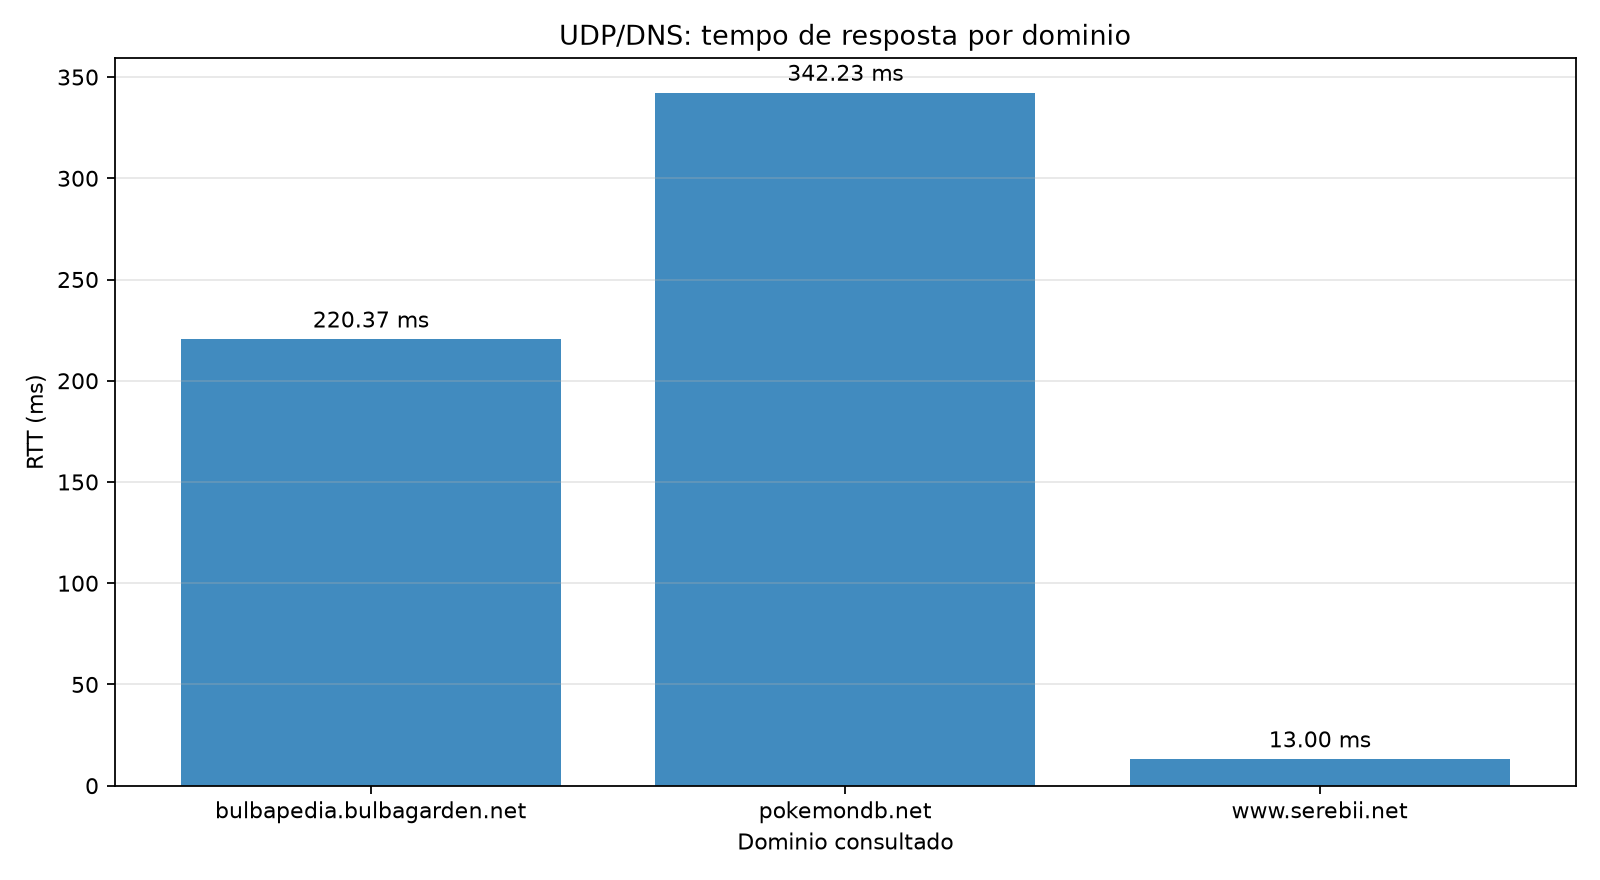
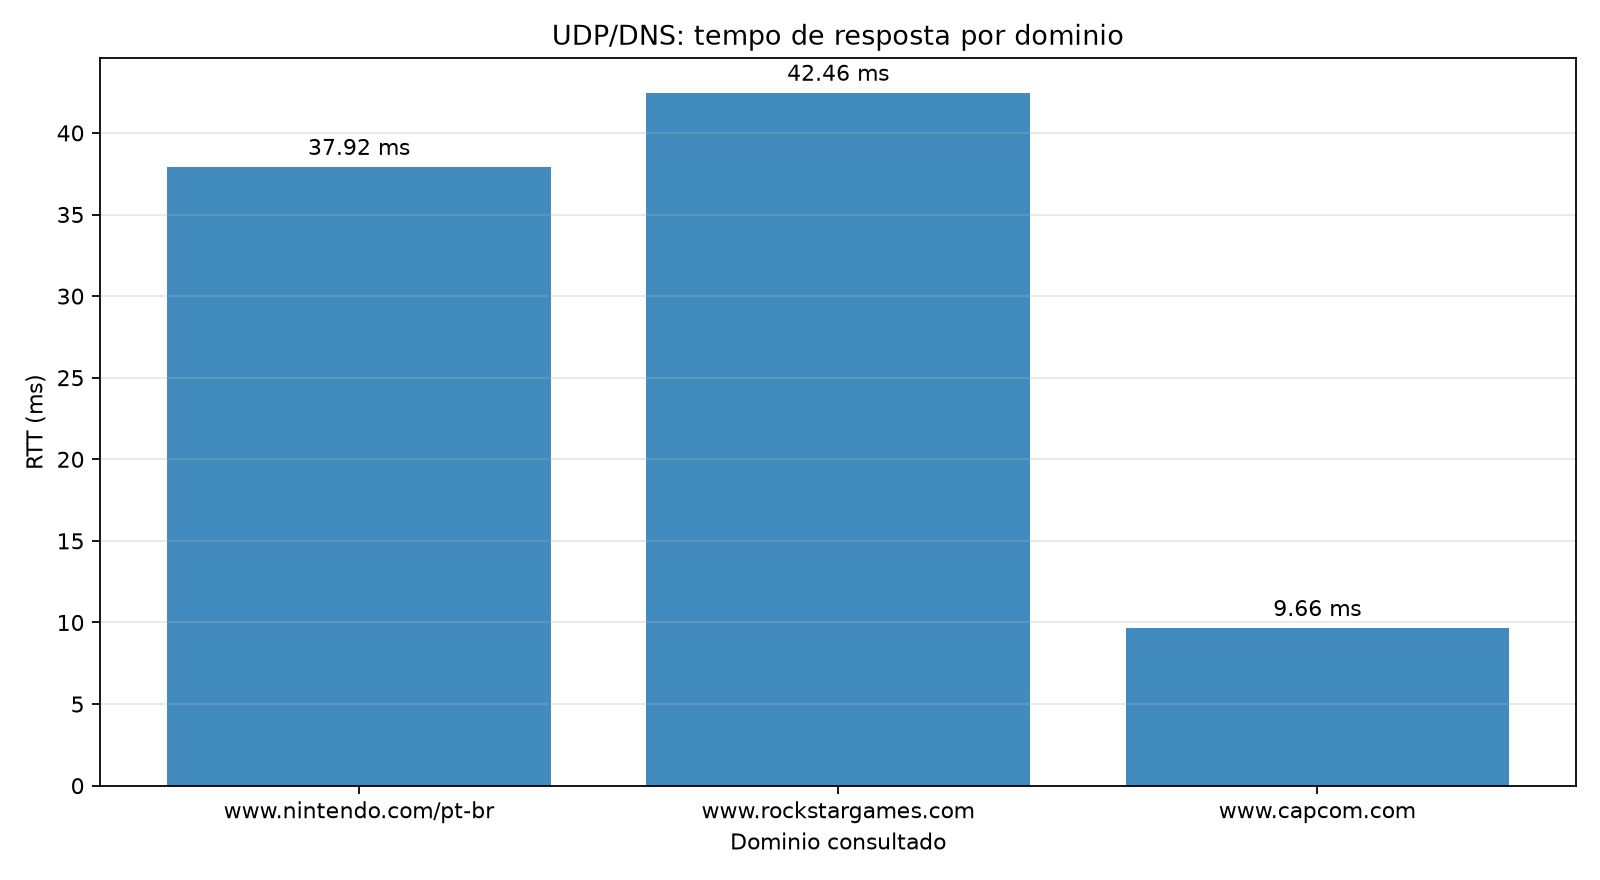
Ajustes gerais do Lab 2

diff --git a/Lab2/analisar_tcp.py b/Lab2/analisar_tcp.py
@@ -1,9 +1,5 @@
 #!/usr/bin/env python3
-"""Gera os graficos e uma analise inicial de um capture TCP.
-
-Uso:
-    python analisar_tcp.py files/tcp-capture-lucas-felix.pcapng
-"""
+"""Gera os graficos e uma analise inicial de um capture TCP."""
 
 from __future__ import annotations
 
@@ -21,6 +17,7 @@ WINDOW_SECONDS = 1.0
 
 
 def flow_endpoints(packet: Any) -> tuple[tuple[str, int], tuple[str, int]]:
+    # Identifica o fluxo TCP pela tupla (IP, porta) de origem e destino.
     tcp = packet[TCP]
     if IP in packet:
         ip_layer = packet[IP]
@@ -30,6 +27,7 @@ def flow_endpoints(packet: Any) -> tuple[tuple[str, int], tuple[str, int]]:
 
 
 def packet_end_sequence(packet: Any) -> int:
+    # Calcula o fim lógico do segmento usando seq + payload + 1 no Syn.
     tcp = packet[TCP]
     payload_length = len(bytes(tcp.payload))
     return int(tcp.seq) + payload_length + (1 if tcp.flags & 0x02 else 0)
@@ -61,6 +59,7 @@ def analyze(capture_path: Path, output_dir: Path) -> None:
     client, server = choose_flow(packets)
     first_time = float(packets[0].time)
 
+    # Mantém apenas os dados do fluxo escolhido: pacotes do cliente com payload e ACKs do servidor.
     client_packets: list[dict[str, float | int]] = []
     server_acks: list[tuple[float, int]] = []
     for packet in packets:
@@ -82,12 +81,13 @@ def analyze(capture_path: Path, output_dir: Path) -> None:
             server_acks.append((timestamp, int(tcp.ack)))
 
     if not client_packets:
-        raise RuntimeError("O fluxo TCP escolhido nao possui segmentos de dados enviados pelo cliente.")
+        pass
 
     client_packets.sort(key=lambda item: float(item["time"]))
     server_acks.sort()
     base_sequence = int(client_packets[0]["seq"])
 
+    # Associa cada segmento de dados ao primeiro ACK cumulativ que confirma o final do segmento.
     rtt_samples: list[tuple[float, float]] = []
     used_ack_index = -1
     for segment in client_packets:
@@ -100,6 +100,7 @@ def analyze(capture_path: Path, output_dir: Path) -> None:
             used_ack_index, ack_time = matching
             rtt_samples.append((float(segment["time"]), ack_time - float(segment["time"])))
 
+    # EstimatedRTT.
     estimated: list[float] = []
     if rtt_samples:
         current = rtt_samples[0][1]
@@ -123,8 +124,6 @@ def analyze(capture_path: Path, output_dir: Path) -> None:
     plot_sequence(client_packets, base_sequence, output_dir / "01_sequencia_fleets.png")
     plot_rtt(rtt_samples, estimated, output_dir / "02_rtt_estimated_rtt.png")
     plot_throughput(throughput, output_dir / "03_throughput.png")
-    write_report(capture_path, output_dir / "analise_tcp.md", client, server, client_packets, rtt_samples, estimated, throughput)
-
     print(f"Fluxo cliente: {client[0]}:{client[1]} -> {server[0]}:{server[1]}")
     print(f"Segmentos de dados do cliente: {len(client_packets)}")
     print(f"Amostras de RTT: {len(rtt_samples)}")
@@ -132,6 +131,7 @@ def analyze(capture_path: Path, output_dir: Path) -> None:
 
 
 def plot_sequence(segments: list[dict[str, float | int]], base: int, path: Path) -> None:
+    # Esse gráfico mostra a evolução da janela de envio, não apenas o número bruto de sequência.
     x = [float(item["time"]) for item in segments]
     y = [int(item["seq"]) - base for item in segments]
     plt.figure(figsize=(11, 5.5))
@@ -173,66 +173,6 @@ def plot_throughput(points: list[tuple[float, float]], path: Path) -> None:
     plt.tight_layout()
     plt.savefig(path, dpi=160)
     plt.close()
-
-
-def write_report(capture_path: Path, path: Path, client: tuple[str, int], server: tuple[str, int], segments: list[dict[str, float | int]], rtt: list[tuple[float, float]], estimated: list[float], throughput: list[tuple[float, float]]) -> None:
-    total_bytes = sum(int(segment["length"]) for segment in segments)
-    duration = max(float(segments[-1]["time"]), 1e-9)
-    rates = [rate for _, rate in throughput if rate > 0]
-    mean_rtt = (sum(value for _, value in rtt) / len(rtt) * 1000) if rtt else float("nan")
-    max_rtt = (max(value for _, value in rtt) * 1000) if rtt else float("nan")
-    first_rate = rates[0] if rates else 0
-    last_rate = rates[-1] if rates else 0
-    peak_rate = max(rates, default=0)
-    peak_time = next((time for time, rate in throughput if rate == peak_rate), 0)
-
-    phase_note = "A inspeção visual do gráfico 1 deve confirmar slow start (fleets crescentes) e a possível entrada em congestion avoidance (crescimento aproximadamente linear)."
-    if len(rates) >= 2 and last_rate > first_rate * 1.5:
-        phase_note = "O throughput termina acima do início, comportamento compatível com a expansão inicial da janela de congestionamento; use o gráfico 1 para separar slow start de congestion avoidance."
-    elif len(rates) >= 2 and last_rate < first_rate * 0.7:
-        phase_note = "O throughput termina abaixo do início, sugerindo perda, redução da janela ou fim da transferência; compare com os gaps/fleets do gráfico 1."
-
-    outlier_note = "Nao foi possivel calcular RTT por ACK no fluxo selecionado."
-    if rtt:
-        outlier_note = f"O RTT medio foi {mean_rtt:.2f} ms e o maior valor foi {max_rtt:.2f} ms. Valores muito acima da media sao candidatos a outliers; a curva EstimatedRTT reage lentamente por usar alpha={ALPHA}."
-
-    path.write_text(f"""# Analise da conexao TCP
-
-Arquivo analisado: `{capture_path}`  
-Ferramenta: Python com `scapy` para decodificacao do PCAPNG e `matplotlib` para os graficos. A escolha permite automatizar a identificacao do fluxo, o calculo de RTT e a reproducibilidade do relatorio.
-
-Fluxo analisado: `{client[0]}:{client[1]}` -> `{server[0]}:{server[1]}`  
-Segmentos de dados do cliente: {len(segments)}  
-Bytes transferidos pelo cliente: {total_bytes}  
-Duracao ate o ultimo segmento de dados: {duration:.3f} s
-
-## 1. Numero de sequencia e fleets
-
-![Sequencia](01_sequencia_fleets.png)
-
-O grafico mostra os segmentos de dados enviados pelo cliente, com o numero de sequencia relativo ao primeiro segmento no eixo vertical. Agrupamentos quase verticais representam fleets: varios segmentos transmitidos em um intervalo curto. Espacos maiores entre agrupamentos indicam espera, por exemplo, devido ao ACK clocking, ao controle de congestionamento ou a uma retransmissao.
-
-{phase_note} A periodicidade dos fleets deve ser relacionada ao RTT: em TCP, os ACKs liberam novos dados e a janela de congestionamento controla quantos bytes podem permanecer em voo. O grafico nao prova sozinho a fase exata, pois perdas, delayed ACK e limitacoes do emissor tambem podem produzir padroes semelhantes.
-
-## 2. RTT e EstimatedRTT
-
-![RTT](02_rtt_estimated_rtt.png)
-
-O RTT por segmento foi estimado associando cada segmento de dados ao primeiro ACK posterior que confirma seu numero de sequencia final, aceitando ACK cumulativo. Foram obtidas {len(rtt)} amostras. {outlier_note} Pela formula do livro-texto, EstimatedRTT = (1 - alpha) * EstimatedRTT anterior + alpha * SampleRTT, com alpha = 0,125; portanto, a curva filtrada suaviza picos e atrasos isolados, mas tambem demora a acompanhar uma mudanca persistente.
-
-## 3. Throughput
-
-![Throughput](03_throughput.png)
-
-O throughput foi calculado somando os bytes de dados enviados pelo cliente em janelas de 1 segundo. O total foi {total_bytes} bytes. A primeira janela nao nula foi {first_rate:.0f} bytes/s, o pico foi {peak_rate:.0f} bytes/s por volta de {peak_time:.1f} s e a ultima janela nao nula foi {last_rate:.0f} bytes/s.
-
-A leitura conjunta deve comparar as barras com o grafico de sequencia: fleets mais densos e maiores tendem a elevar a taxa; gaps e fleets menores tendem a reduzi-la. Crescimento inicial e posterior estabilizacao sao coerentes com slow start seguido de congestion avoidance, enquanto quedas abruptas podem indicar perda ou esgotamento da aplicacao. A janela de 1 segundo reduz ruido, mas pode esconder variacoes em escala de RTT.
-
-## Observacao metodologica
-
-O script analisa apenas dados enviados pelo cliente detectado pelo primeiro SYN e ignora retransmissoes na contagem de bytes do throughput apenas na medida em que elas aparecem como bytes capturados; por isso, o valor representa bytes observados no capture, nao necessariamente bytes entregues unicos na aplicacao.
-""", encoding="utf-8")
-
 
 def main() -> None:
     parser = argparse.ArgumentParser(description=__doc__)

diff --git a/Lab2/analisar_udp.py b/Lab2/analisar_udp.py
@@ -1,9 +1,5 @@
 #!/usr/bin/env python3
-"""Gera os graficos e uma analise do trafego DNS sobre UDP.
-
-Uso:
-    python analisar_udp.py files/udp-capture-lucas-felix.pcapng
-"""
+"""Gera os graficos e uma analise do trafego DNS sobre UDP. """
 
 from __future__ import annotations
 
@@ -55,6 +51,7 @@ def select_target_names(packets: list[Any]) -> list[str]:
 
 
 def find_rtt_samples(packets: list[Any], target_names: list[str]) -> list[tuple[str, float]]:
+    # A chave da análise DNS é emparelhar cada consulta com a resposta correta usando ID, nome,
     queries: dict[tuple[int, str, str, str, int, int], float] = {}
     samples: list[tuple[str, float]] = []
     target_set = set(target_names)
@@ -82,6 +79,7 @@ def find_rtt_samples(packets: list[Any], target_names: list[str]) -> list[tuple[
 
 
 def tcp_option_size(packets: list[Any]) -> tuple[int, int]:
+    # A análise do TCP usa dataofs para medir o tamanho do cabecalho e subtrai os 20 bytes fixos
     sizes = [int(packet[TCP].dataofs) * 4 for packet in packets if TCP in packet and packet[TCP].dataofs]
     if not sizes:
         raise RuntimeError("Nenhum cabecalho TCP com tamanho decodificado foi encontrado.")
@@ -127,45 +125,17 @@ def plot_header_sizes(tcp_options: int, path: Path) -> None:
     plt.close()
 
 
-def write_report(path: Path, capture_path: Path, samples: list[tuple[str, float]], tcp_header: int, tcp_options: int) -> None:
-    fastest = min(samples, key=lambda item: item[1])
-    slowest = max(samples, key=lambda item: item[1])
-    name_list = ", ".join(name.removeprefix("https://") for name, _ in samples)
-    path.write_text(f"""# Analise do trafego UDP
-
-Arquivo analisado: `{capture_path}`  
-Ferramenta: Python com `scapy` e `matplotlib`.
-
-Dominios alvo: {name_list}
-
-## 1. RTT das consultas DNS
-
-![RTT DNS](01_rtt_dns.png)
-
-O RTT foi calculado como a diferenca entre o timestamp da consulta DNS e o timestamp da resposta correspondente. A associacao usou o ID da transacao DNS, o nome consultado, as portas UDP e os enderecos IP invertidos.
-
-A consulta com maior RTT foi **{slowest[0].removeprefix("https://")}**, com **{slowest[1]:.2f} ms**. A menor foi **{fastest[0].removeprefix("https://")}**, com **{fastest[1]:.2f} ms**. A diferenca pode ser explicada pelo cache do resolvedor local, pela necessidade de consultar servidores autoritativos, pela localizacao/topologia desses servidores e pela carga ou fila da rede no instante da captura. O grafico mede o caminho ate o resolvedor `192.168.15.1`; portanto, nao identifica sozinho qual desses fatores dominou.
-
-## 2. Campos dos cabecalhos UDP e TCP
-
-![Cabecalhos](02_tamanho_campos_udp_tcp.png)
-
-O cabecalho UDP tem apenas quatro campos de 2 bytes: portas de origem e destino, comprimento e checksum, totalizando **8 bytes**. No TCP capturado, os campos equivalentes de portas e checksum tambem tem 2 bytes, mas o cabecalho inclui sequencia (4), ACK (4), flags/reservado (2), janela (2), ponteiro urgente (2) e opcoes. O tamanho TCP observado com maior frequencia foi **{tcp_header} bytes**, dos quais **{tcp_options} bytes** sao opcoes.
-
-Assim, UDP nao possui numeracao de sequencia, confirmacao, janela, flags de controle ou ponteiro urgente. Essa ausencia revela a simplicidade e baixo overhead do UDP: confiabilidade, ordenacao, retransmissao e controle de fluxo ficam a cargo da aplicacao, enquanto o TCP implementa esses mecanismos no proprio transporte.
-""", encoding="utf-8")
-
-
 def analyze(capture_path: Path, output_dir: Path, tcp_capture: Path) -> None:
     packets = rdpcap(str(capture_path))
     tcp_packets = rdpcap(str(tcp_capture))
     target_names = select_target_names(packets)
     samples = find_rtt_samples(packets, target_names)
     tcp_header, tcp_options = tcp_option_size(tcp_packets)
+    # A geração do relatório depende de três peças: filtragem do alvo, medição de RTT DNS e comparação
+    # do overhead do cabeçalho TCP em relação ao UDP. Essas são as informações relevantes do experimento.
     output_dir.mkdir(parents=True, exist_ok=True)
     plot_rtt(samples, output_dir / "01_rtt_dns.png")
     plot_header_sizes(tcp_options, output_dir / "02_tamanho_campos_udp_tcp.png")
-    write_report(output_dir / "analise_udp.md", capture_path, samples, tcp_header, tcp_options)
     print("RTTs: " + ", ".join(f"{name}={rtt:.2f} ms" for name, rtt in samples))
     print(f"Cabecalho TCP mais frequente: {tcp_header} bytes ({tcp_options} bytes de opcoes)")
     print(f"Arquivos gerados em: {output_dir}")
